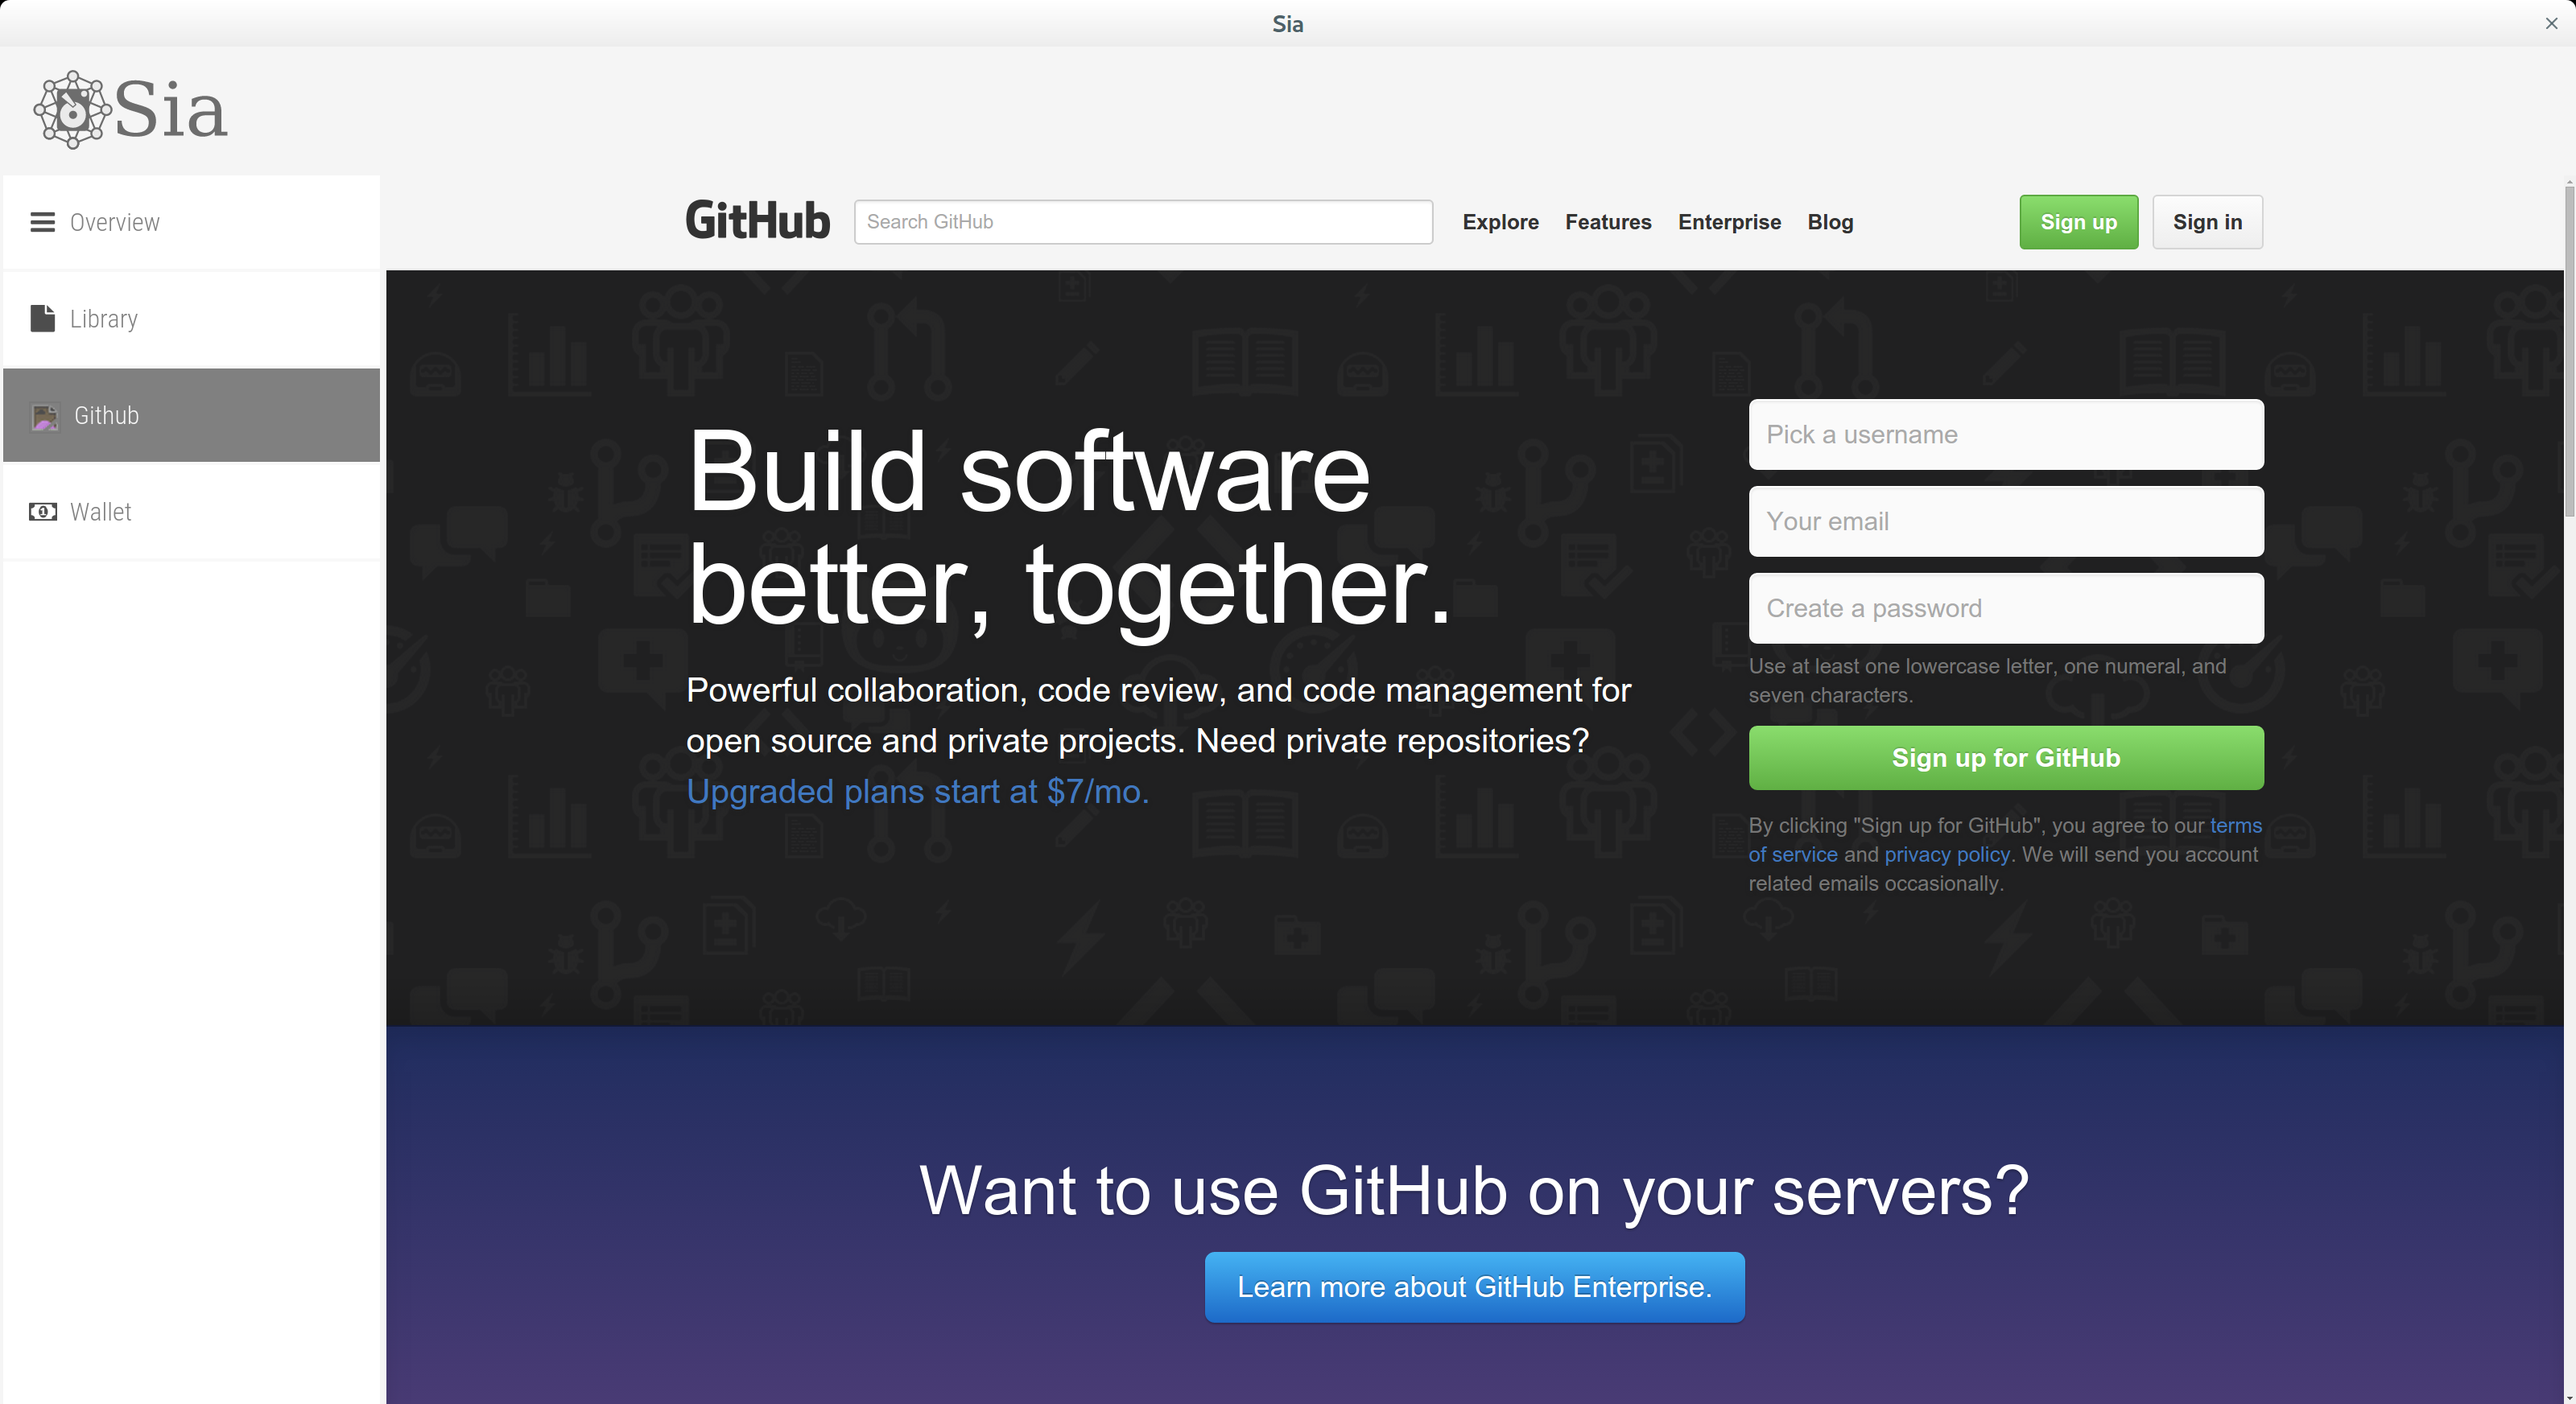
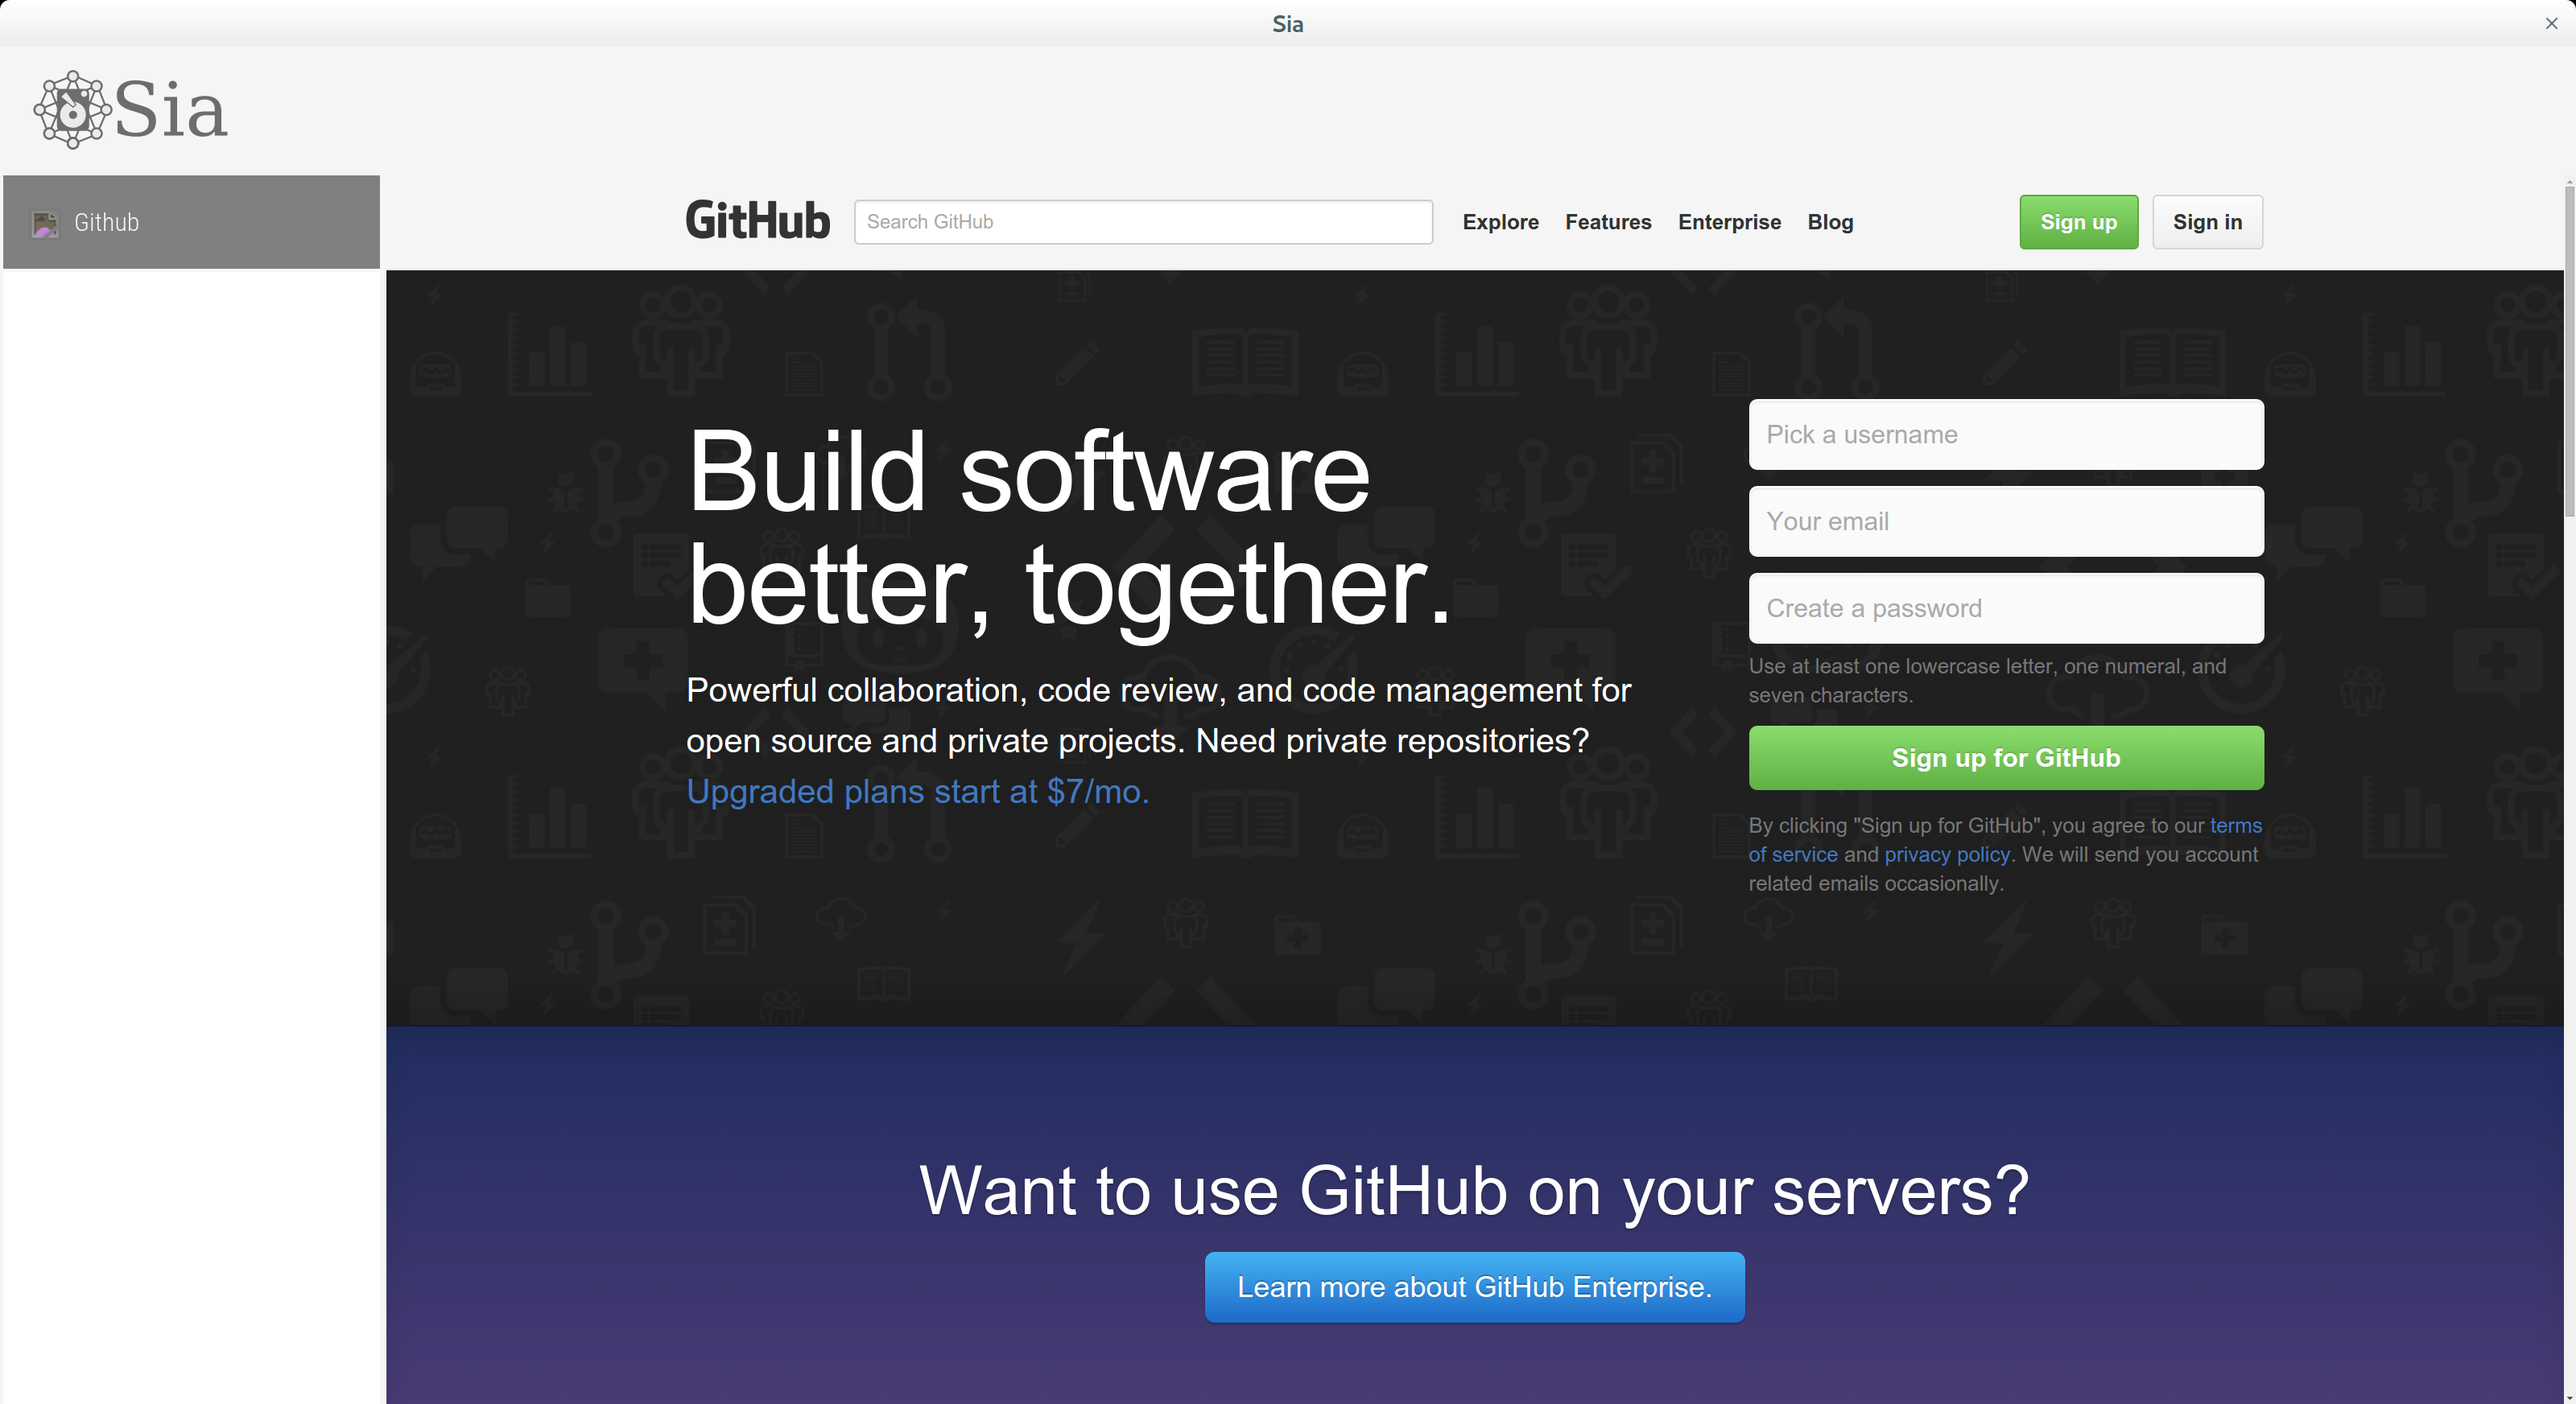
Added some images and more tutorial

Changed region(s): [[0.0, 0.1238, 0.1562, 0.3713]]

diff --git a/app/Overview/index.html b/app/Overview/index.html
@@ -2,12 +2,21 @@
 <html>
 	<head>
 		<title>Overview</title>
+
+		<!-- CSS -->
+		<link rel='stylesheet' href='css/roboto-condensed-min.css'>
+		<link rel='stylesheet' href='css/overview.css'>
 	</head>
 	<body>
 
 		<!-- Header -->
 		<div class='header'>
 			<div class='title' id='title'>Overview</div>
+			<div class='capsule'>
+				<div class='pod' id='balance'></div>
+				<div class='pod' id='peers'></div>
+				<div class='pod' id='block-height'></div>
+			</div>
 		</div>
 
 		<!-- Frame -->
@@ -17,5 +26,8 @@
 				<div class='small'>A highly efficient decentralized storage network.</div>
 			</div>
 		</div>
+		
+		<!-- JS -->
+		<script type='text/javascript' src='js/overview.js'></script>
 	</body>
 </html>

diff --git a/app/js/pluginFactory.js b/app/js/pluginFactory.js
@@ -27,6 +27,7 @@ module.exports = {
 		v.id = name + '-view';
 		v.className = 'plugin-view';
 		v.src = markupPath;
+		v.autosize = 'on';
 		
 		// Turn nodeintegration on so plugins can use electron & node libraries
 		// TODO: nodeintegration breaks some global variables on sites, like

diff --git a/app/js/pluginManager.js b/app/js/pluginManager.js
@@ -30,7 +30,10 @@ var Plugins = (function() {
 			// Swap it to be first
 			pluginNames[homeIndex] = pluginNames[0];
 			pluginNames[0] = home;
+			return;
 		}
+		// No home plugin installed
+		home = pluginNames[0];
 	}
 
 	// addListeners(plugin) handles listening for plugin messages 

diff --git a/doc/plugin-tutorial.md b/doc/plugin-tutorial.md
@@ -27,9 +27,7 @@ community interested in the Sia network to be able to:
 
 1. Use Sia-UI in the way they want with only the plugins they care about instead
 of using our rigid set of tools.
-
 2. Be able to design and implement their own plugins.
-
 3. Customize their own UI experience simply without obfuscating menubars.
 
 In the works already is a product that would serve up the locations of files on
@@ -47,7 +45,8 @@ distribution so it makes sense to dynamically load them with the UI.
 
 # How to write a plugin
 
-## Summary
+## It's a webpage... it's that simple.
+
 Plugins are loaded into Sia-UI on run-time through an electron utility called
 the [web-view tag](http://electron.atom.io/docs/v0.29.0/api/web-view-tag/).
 These tags open up the viewing of guest content by pointing to an HTML file
@@ -60,7 +59,57 @@ One could make a plugin that views Github.com by making a folder
 Suddenly, there's a button labeled 'Github' and upon click, shows ![Note: Though this is currently a bit buggy due to sites using global variables that
 conflict with nodeintegration being turned on.](/doc/assets/github-plugin.png)
 
-Having a simple button.png 
+## Making a Sidebar Button
 
+However, we don't want developers to launch a webpage on a server just to make
+a plugin. We're trying to make a basic plugin that serves an actual function.
+For this, we'll go through implementing the Overview plugin.
 
+Plugins are loaded dynamically based on the folders in the /app/plugins
+directory. The sidebar is handled on our part so plugins only need a properly
+placed png file and folder name for a button. 
+With a folder 'Overview' and a button.png to be our plugin's icon for
+navigation purposes. 
+This plugin directory should now be:
+```text
+Sia-UI/app/plugins/Overview/
+└── assets/
+	└── button.png
+```
+The Overview uses the 'bars' [font awesome icon in png form](http://fa2png.io/).
+Loading up Sia-UI again, we'll see: ![Impressive plugin ain't it?](/doc/assets/sidebar.png)
+
+## Making a Mainbar View
+
+Now to insert some content for our plugin. The overview plugin will be the home
+plugin for most everyone, so we'll add a nice little greeting and title to it:
+```html
+<!DOCTYPE html>
+<html>
+	<head>
+		<title>Overview</title>
+	</head>
+	<body>
+
+		<!-- Header -->
+		<div class='header'>
+			<div class='title' id='title'>Overview</div>
+		</div>
+
+		<!-- Frame -->
+		<div class='frame'>
+			<div class='welcome'>
+				<div class='large'>Welcome to Sia</div>
+				<div class='small'>A highly efficient decentralized storage network.</div>
+			</div>
+		</div>
+	</body>
+</html>
+```
+
+Loading up Sia-UI again, we'll see: ![Impressive plugin ain't it?](/doc/assets/basic-html.png)
+
+## Adding CSS
+
+We're thinking about 
 
